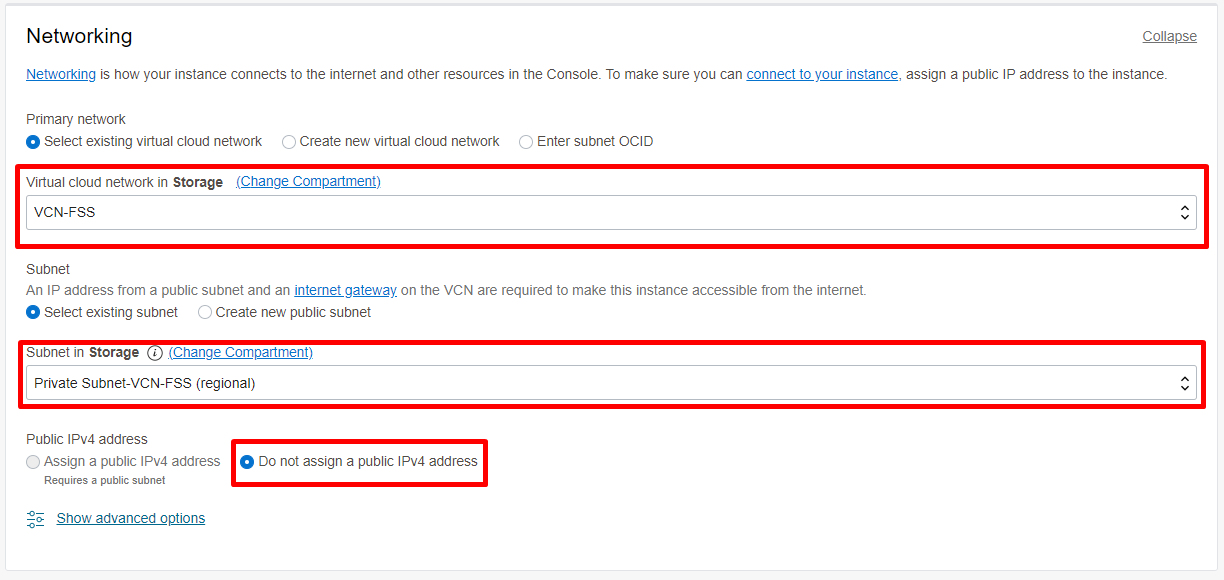
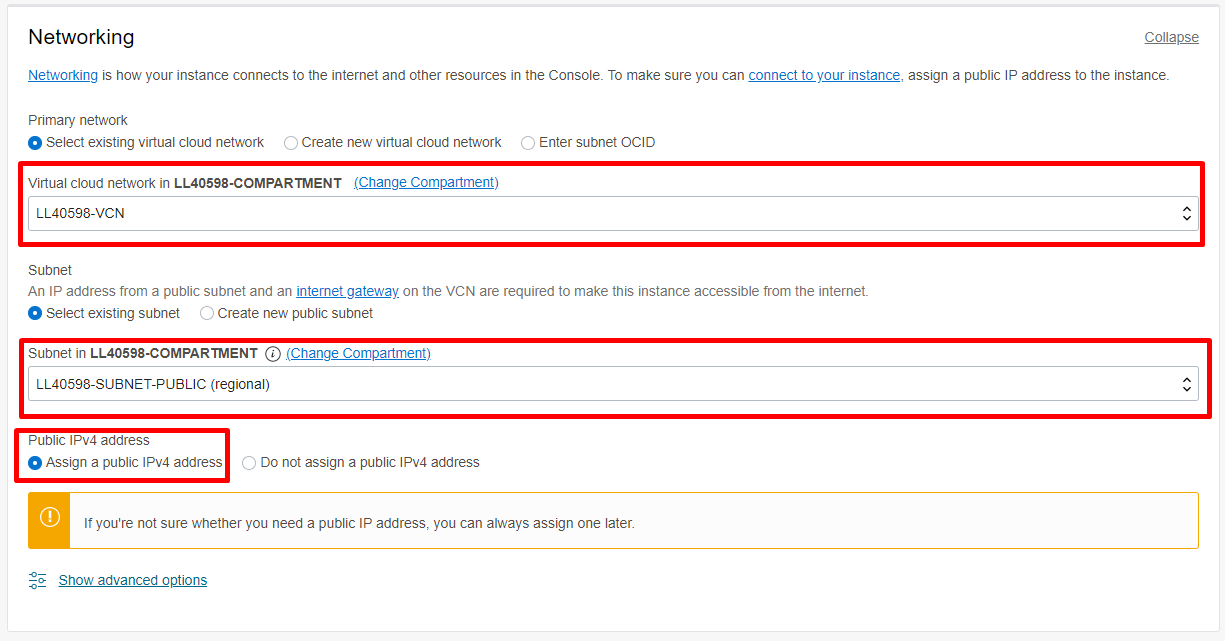
Conflicts resolved WMS ID: 11101 (#118)
* Create teste.txt

* Delete teste.txt

* changes in lab code

* correction in lab 6 code

* add copy tags

* Lab 6 update

* Green Button labs creation

* folder desktop for noVNC

* Update manifest.json

* Manifest (desktop)

* Intro update

* Green Button Labs created

* Update gb-create-load-balancer.md

* Update gb-create-load-balancer.md

* stakeholder's mailbox correction

* Update gb-create-compute-vm.md

* Corrections Green Button

* Update gb-create-compute-vm.md

Changed region(s): [[0.0, 0.031, 1.0, 0.9621]]

diff --git a/oci-fast-track/gb-create-compute-vm/gb-create-compute-vm.md b/oci-fast-track/gb-create-compute-vm/gb-create-compute-vm.md
@@ -32,17 +32,25 @@ ssh-keygen -t rsa
 
 ![criar chave ssh](./images/vm-keys.png)
 
+> **Note:** No NoVNC ative a função "Mostrar Teclado" para que seja possível digitar o caracter "~" no próximo passo
+
+![ativar teclado](./images/novnc-teclado.png)
+
 3. Exiba o conteúdo da chave pública que você criou utilizando o comando:
 
 ```
 cat ~/.ssh/id_rsa.pub
 ```
 
-* Selecione e Copie o conteúdo dessa chave, pois a usaremos para a criação das máquinas virtuais Linux
+* Selecione e Copie o conteúdo dessa chave, pois a usaremos para a criação das máquinas virtuais Linux.
 
 ![copiar texto da chave](./images/vm-cat.png)
 
 Para a criação da VM, usaremos a chave pública. A chave privada será usada apenas para conexão.
+
+> **Note:** Cole esse conteúdo na Área de Transferencia do NoVNC para facilitar o processo de colar dentro do Terminal. A partir de agora sempre que precisar copiar/colar algo no Terminal utilize a Área de Transferência
+
+![area de transferencia](./images/area-de-transferencia.png)
 
 ## Task 2: Criar 2 máquinas virtuais Oracle Linux
 
@@ -56,12 +64,12 @@ Para a criação da VM, usaremos a chave pública. A chave privada será usada a
 * Availability Domain: AD 1
 * Operating System: Oracle Linux 7.9
 * Instance Type: Virtual Machine
-* Instance Shape: AMD VM.Standard.E3.Flex
+* Instance Shape: AMD VM.Standard.E4.Flex
 * Choose SSH Key File: Insira a chave SSH pública (.pub)
 * Virtual Cloud Network Compartment: "Compartimento-Trial"
 * Virtual Cloud Network: "VCN-TRIAL"
 * Subnet Compartment: "Compartimento-Trial"
-* Subnet: Private Subnet
+* Subnet: Public Subnet
 * Lembre-se de escolher o AD certo e seu Compartimento
 
 ![preencha os campos iniciais](./images/vm-fields-create-9.png)
@@ -74,7 +82,7 @@ Para a criação da VM, usaremos a chave pública. A chave privada será usada a
 
 ![selecione o tamanho da virtual machine](./images/vm-size-12.png)
 
-3. Ao inserir as informações de rede, lembre-se de escolher a Subnet Privada e a opção "Do not assign a public IPv4 address"
+3. Ao inserir as informações de rede, lembre-se de escolher a Subnet Publica e a opção "Assign a public IPv4 address"
 
 ![Configurações de rede para VM](./images/vm-private.png)
 
@@ -92,12 +100,12 @@ Você provavelmente terá a nova instância devidamente criada em alguns minutos
 * Availability Domain: AD 2
 * Operating System: Oracle Linux 7.9
 * Instance Type: Virtual Machine
-* Instance Shape: AMD VM.Standard.E3.Flex
+* Instance Shape: AMD VM.Standard.E4.Flex
 * Choose SSH Key File: Insira a chave SSH pública (.pub)
 * Virtual Cloud Network Compartment: "Compartimento-Trial"
 * Virtual Cloud Network: "VCN-TRIAL"
 * Subnet Compartment: "Compartimento-Trial"
-* Subnet: Private Subnet
+* Subnet: Public Subnet
 
 ## Task 3: Acessar a VM Linux pelo Terminal
 
@@ -126,7 +134,7 @@ Você pode **seguir para o próximo Lab**.
 
 ## Conclusão
 
-Nesta sessão você aprendeu a criar Máquina Virtuais Linux e Windows e aprendeu como acessá-las.
+Nesta sessão você aprendeu a criar Máquinas Virtuais Linux e como acessá-las.
 
 ## Autoria
 

diff --git a/oci-fast-track/gb-create-block-volume/gb-create-block-volume.md b/oci-fast-track/gb-create-block-volume/gb-create-block-volume.md
@@ -26,7 +26,6 @@ Neste Lab você vai aprender a trabalhar com Block Storage dentro da Oracle Clou
 - **Virtual Cloud Network**: `<sua-vcn>`
 - **Availability Domain**: AD 1
 - **Size**: 500 GB
-- **Backup Policy**: Bronze
 - **Volume Performance**: Balanced
 
 *Selecione o Availability Domain (AD) do block volume como sendo o mesmo da instância.*
